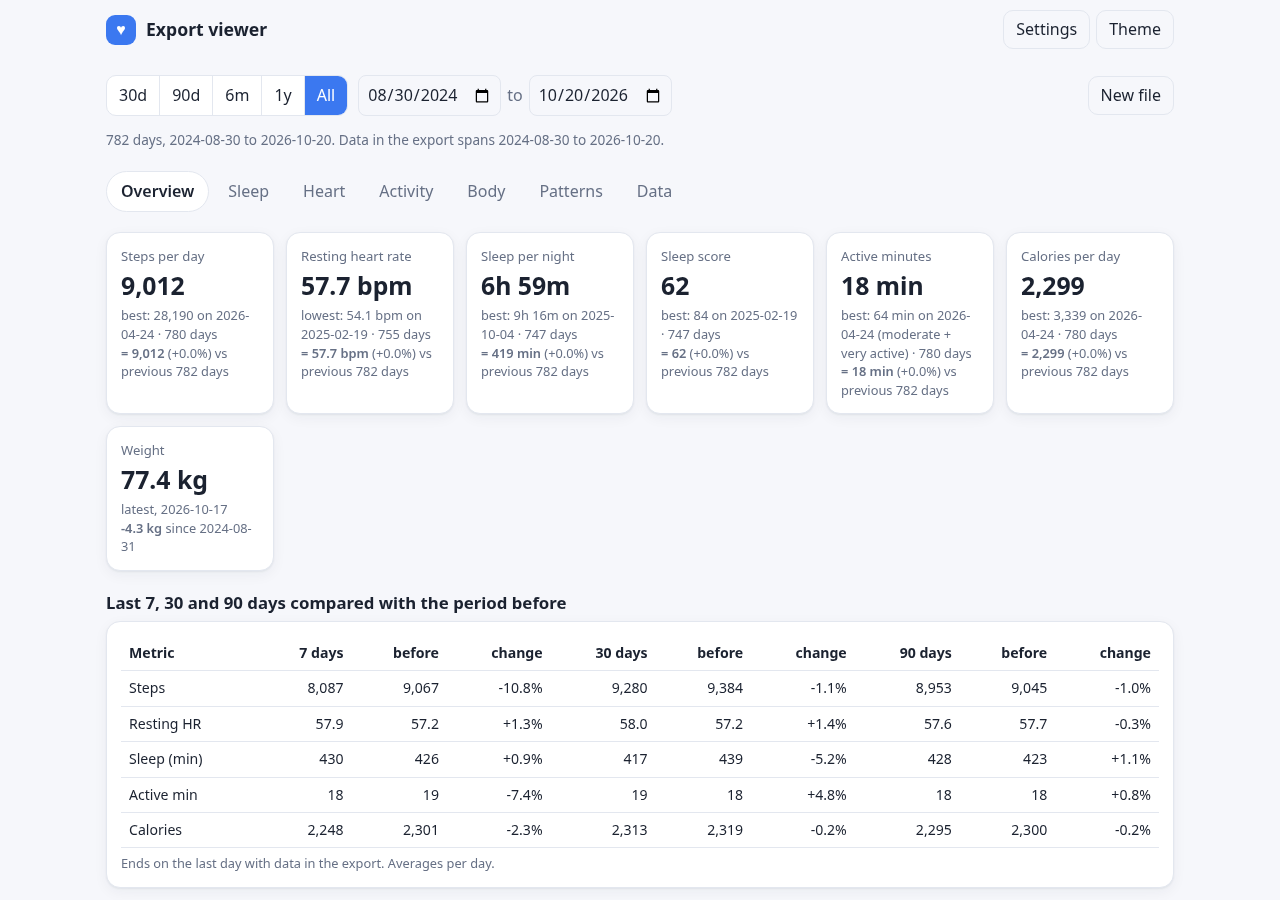
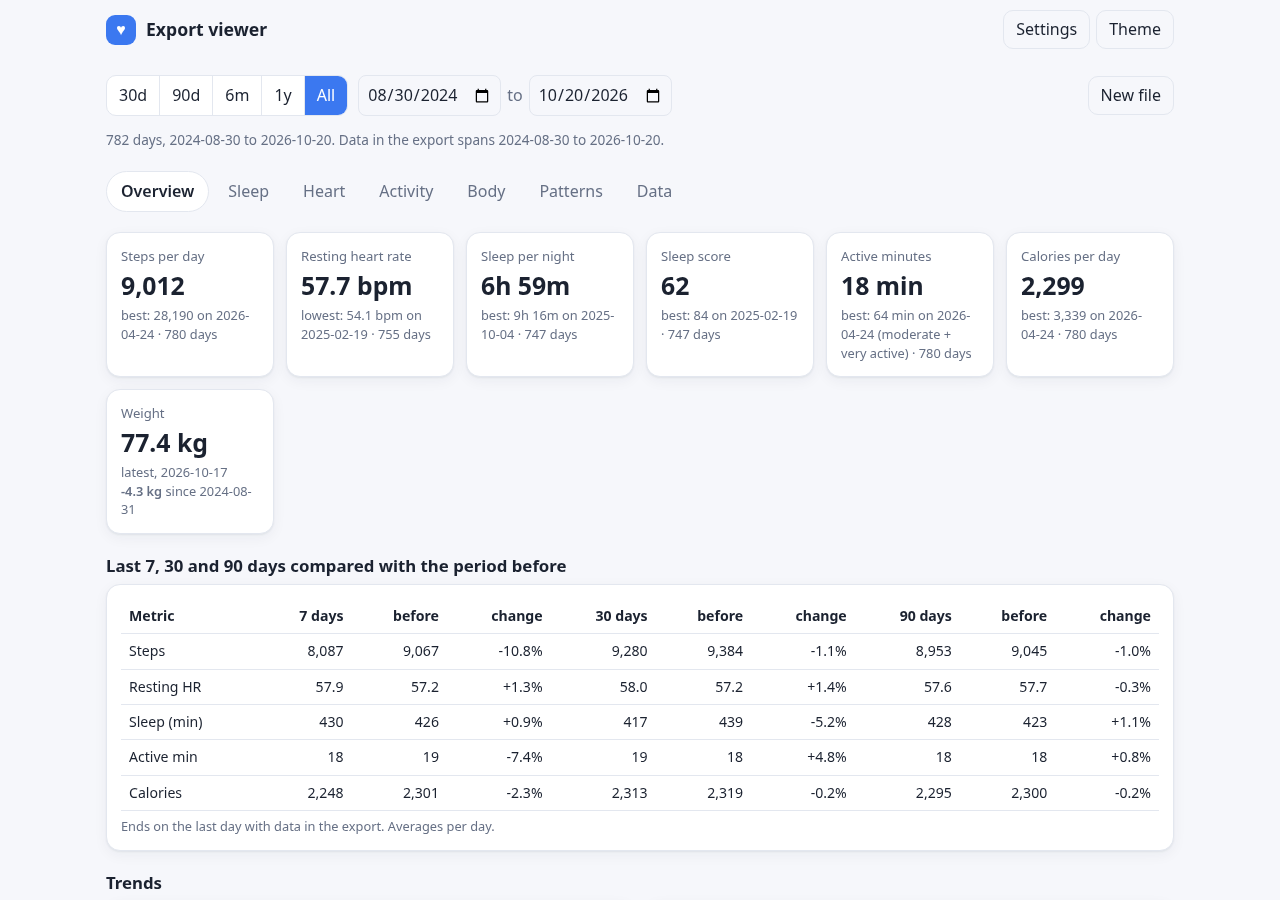
Fix empty previous-period comparison, heatmap month labels, curated screenshots

diff --git a/public/js/app.js b/public/js/app.js
@@ -394,11 +394,12 @@ function drawHeatmap() {
   const col = [cssv('--hm0'), cssv('--hm1'), cssv('--hm2'), cssv('--hm3'), cssv('--hm4')];
   x.font = '10px system-ui'; x.fillStyle = cssv('--muted'); x.textBaseline = 'middle';
   ['Mon', 'Wed', 'Fri'].forEach((l, i) => x.fillText(l, 0, 18 + (i * 2 + .5) * cell));
-  let lastMonth = '';
+  let lastMonth = '', lastLabX = -999, lastLab = '';
+  const MON = ['Jan', 'Feb', 'Mar', 'Apr', 'May', 'Jun', 'Jul', 'Aug', 'Sep', 'Oct', 'Nov', 'Dec'];
   for (const c of h.cells) {
     if (c.d > S.range.to) continue;
     const px = 30 + c.w * cell, py = 18 + c.r * cell;
-    if (c.r === 0 && c.d.slice(0, 7) !== lastMonth && c.d.slice(8) <= '07') { lastMonth = c.d.slice(0, 7); x.fillStyle = cssv('--muted'); x.fillText(c.d.slice(0, 7), px, 8); }
+    if (c.r === 0 && c.d.slice(0, 7) !== lastMonth && c.d.slice(8) <= '07') { lastMonth = c.d.slice(0, 7); const mn = c.d.slice(5, 7), lab = MON[+mn - 1] + (mn === '01' ? ' ' + c.d.slice(2, 4) : ''); if (px >= lastLabX + x.measureText(lastLab).width + 6) { x.fillStyle = cssv('--muted'); x.fillText(lab, px, 8); lastLabX = px; lastLab = lab; } }
     let lv = 0; if (c.v != null && c.v > 0) lv = c.v <= th[0] ? 1 : c.v <= th[1] ? 2 : c.v <= th[2] ? 3 : c.v <= th[3] ? 3 : 4; if (c.v != null && c.v > th[3]) lv = 4; else if (c.v != null && c.v > 0 && lv === 0) lv = 1;
     x.fillStyle = col[lv]; x.fillRect(px, py, cell - gap, cell - gap);
   }
